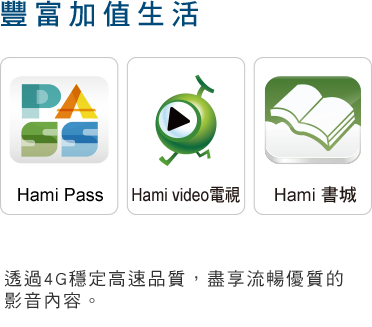
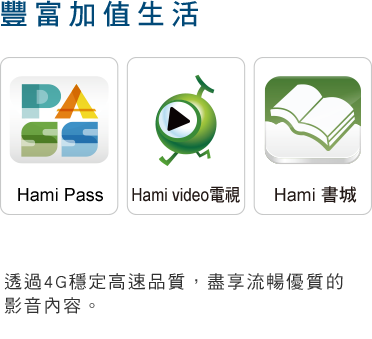
txt position

diff --git a/css/default.css b/css/default.css
@@ -3740,7 +3740,7 @@ a:hover {
 }
 #moreBox .container .box1 .pic {
   width: 372px;
-  height: 327px;
+  height: 339px;
   background-image: url("../images/ff1.png");
 }
 #moreBox .container .box1 .btn {
@@ -3771,7 +3771,7 @@ a:hover {
 }
 #moreBox .container .box3 .pic {
   width: 371px;
-  height: 327px;
+  height: 339px;
   background-image: url("../images/ff2.png");
 }
 #moreBox .container .box3 .btn {

diff --git a/sass/_index.sass b/sass/_index.sass
@@ -358,7 +358,7 @@ a:hover
 				float: right
 				margin-top: 25px
 				+phone	
-					+bg('m_btn5.png')
+					+bg('m_btn5.png') 
 #footer
 	width: 100%
 	background-image: url(../images/f2.png)		
